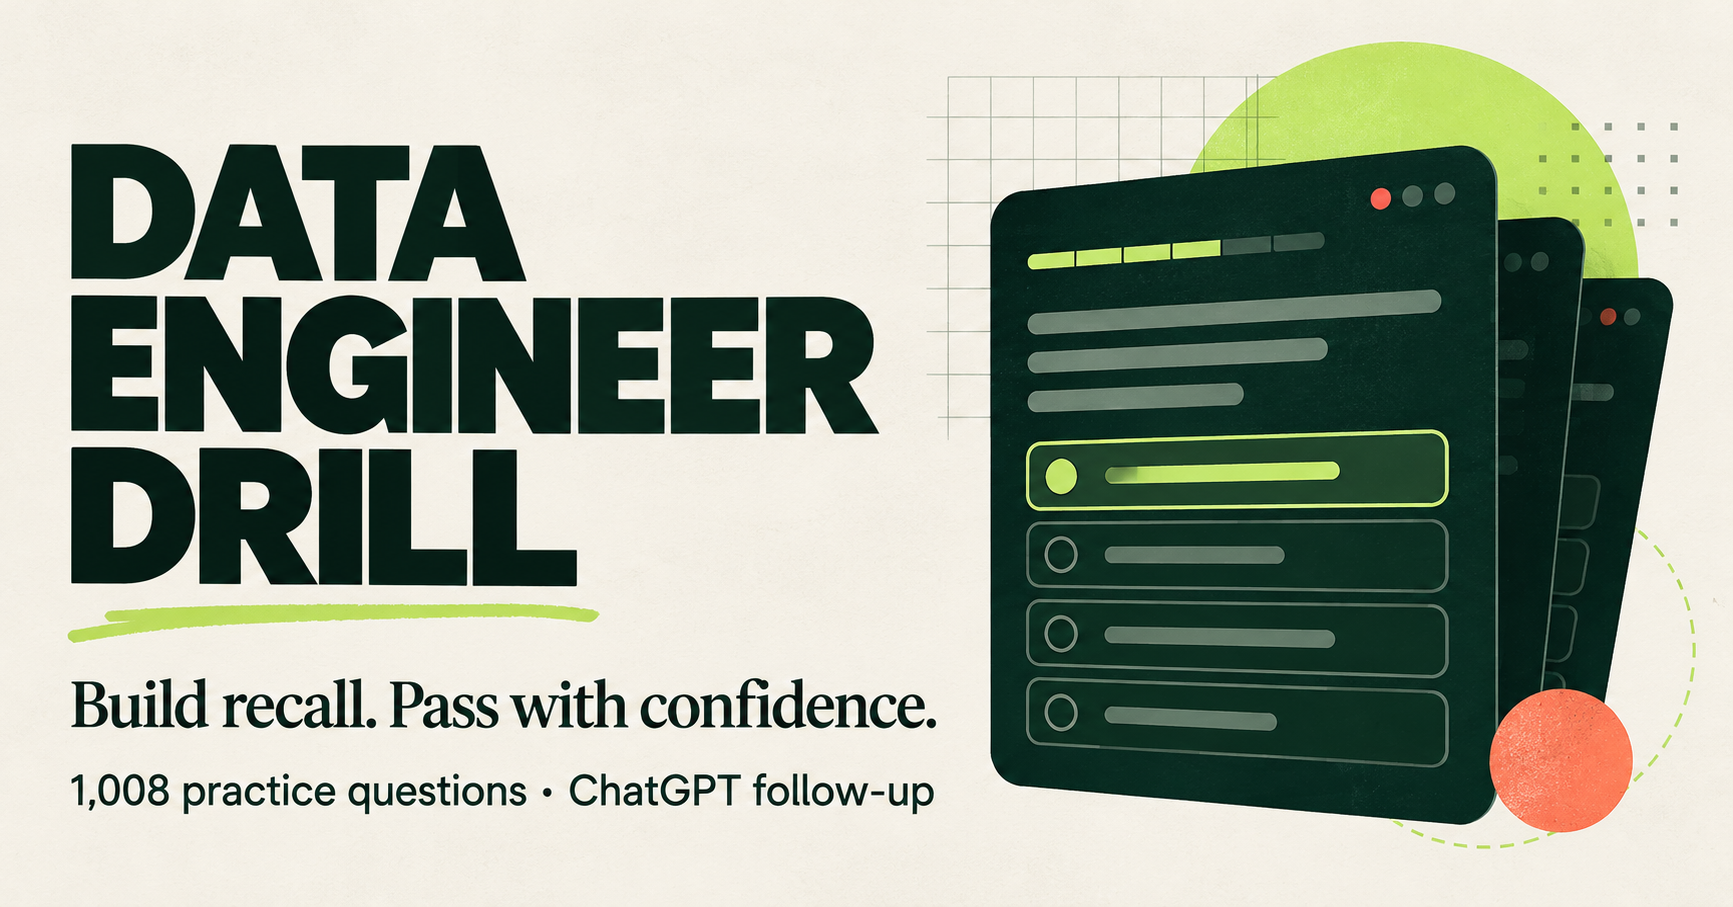
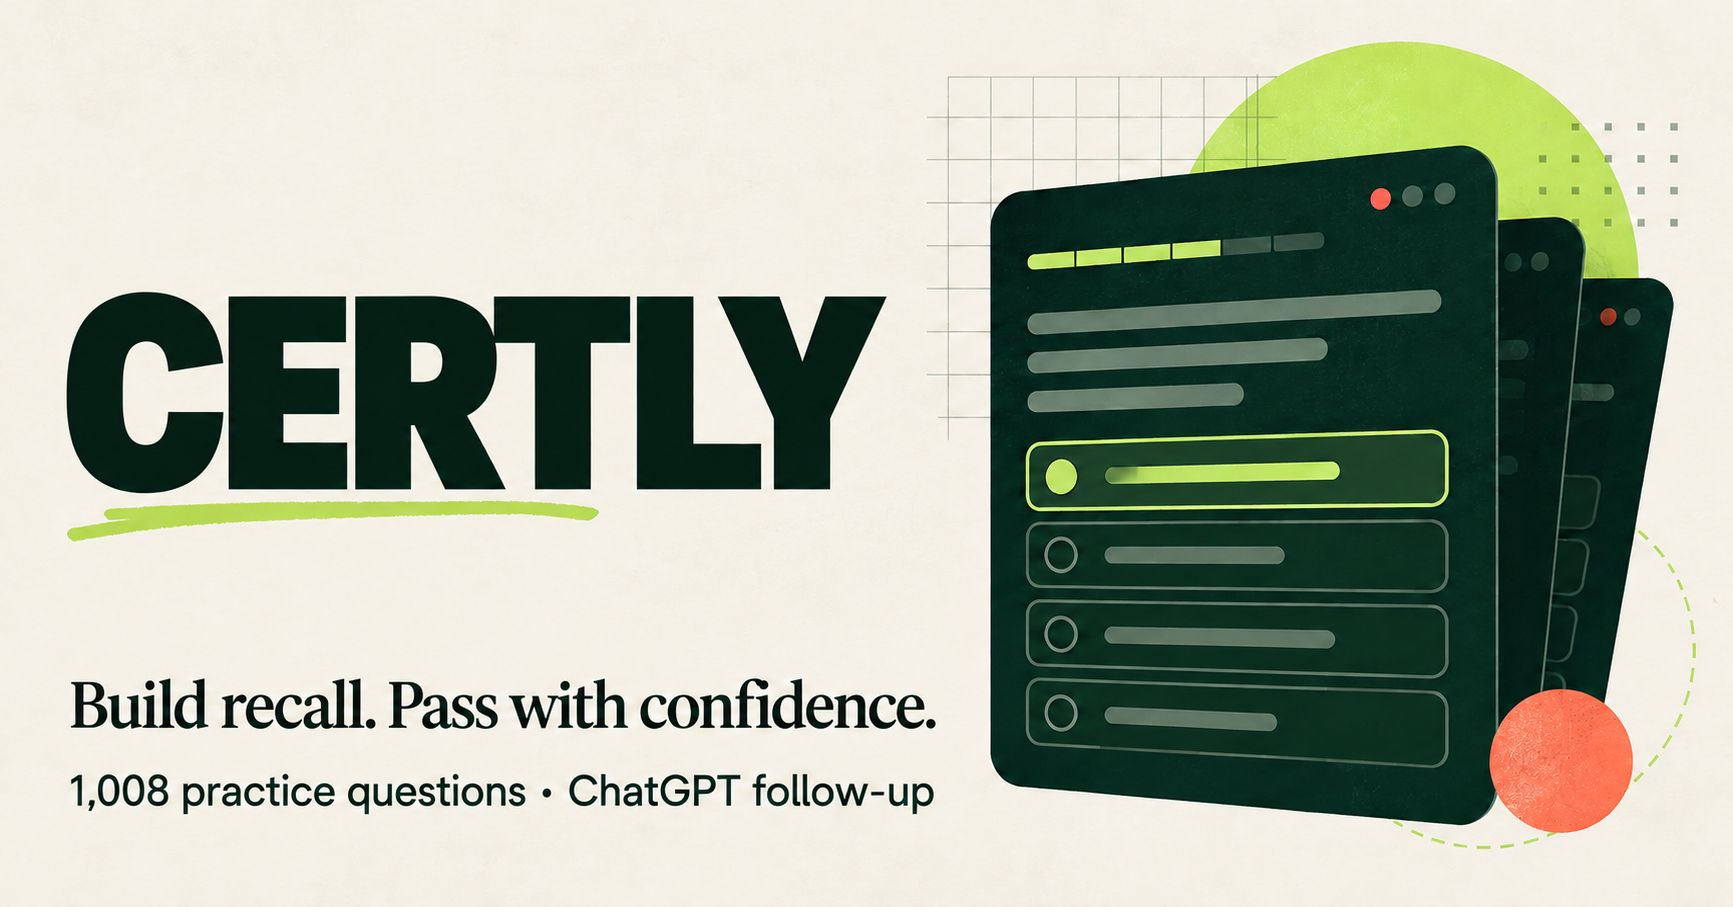
Complete Certly rebrand and module cleanup

diff --git a/index.html b/index.html
@@ -5,7 +5,7 @@
   <meta name="viewport" content="width=device-width, initial-scale=1, viewport-fit=cover">
   <meta name="theme-color" content="#10231e">
   <meta name="description" content="Mobile practice for the Databricks Data Engineer Associate certification.">
-  <meta property="og:title" content="Data Engineer Drill">
+  <meta property="og:title" content="Certly">
   <meta property="og:description" content="Focused practice, clear explanations, and ChatGPT follow-up for the Databricks Data Engineer Associate exam.">
   <meta property="og:image" content="./og.png">
   <link rel="manifest" href="./manifest.webmanifest">
@@ -114,7 +114,7 @@
     }
     .stats-strip {
       display: grid;
-      grid-template-columns: repeat(3, 1fr);
+      grid-template-columns: repeat(2, 1fr);
       gap: 8px;
       margin: 13px 0 20px;
     }
@@ -180,7 +180,6 @@
     .btn-dark { background: var(--ink); color: white; }
     .btn-light { border: 1px solid var(--line); background: var(--surface); color: var(--ink); }
     .btn-ghost { background: transparent; color: var(--ink-soft); }
-    .btn-danger { background: var(--coral-soft); color: #8b2b19; }
     .action-grid { display: grid; grid-template-columns: 1fr 1fr; gap: 10px; margin: 12px 0 25px; }
     .action-card {
       min-height: 122px;
@@ -317,10 +316,6 @@
     .insight-icon { display: grid; width: 44px; height: 44px; flex: 0 0 auto; place-items: center; border-radius: 14px; background: var(--mint); font-weight: 900; }
     .insight-card p { margin: 3px 0 0; color: var(--muted); font-size: 12px; }
     .insight-card .btn { min-height: 42px; margin-left: auto; padding: 8px 12px; font-size: 11px; }
-    .settings-card { padding: 18px; margin-bottom: 11px; }
-    .settings-row { display: flex; align-items: center; justify-content: space-between; gap: 16px; }
-    .settings-row p { margin: 4px 0 0; color: var(--muted); font-size: 12px; line-height: 1.4; }
-    .data-note { margin-top: 16px; padding: 15px; border-left: 4px solid var(--lime-dark); border-radius: 10px; background: #eceadf; color: var(--ink-soft); font-size: 12px; line-height: 1.5; }
     .toast {
       position: fixed;
       z-index: 80;
@@ -360,8 +355,8 @@
   <div class="app-shell">
     <header class="topbar">
       <div class="brand">
-        <div class="brand-mark">DE</div>
-        <div><div class="brand-name">Data Engineer Drill</div><div class="brand-sub">Associate certification</div></div>
+        <div class="brand-mark">C</div>
+        <div><div class="brand-name">Certly</div><div class="brand-sub">Associate certification</div></div>
       </div>
       <div class="local-pill"><i class="local-dot"></i> On-device</div>
     </header>
@@ -371,7 +366,6 @@
     <nav class="bottom-nav" id="bottom-nav" aria-label="Primary navigation" hidden>
       <button class="nav-btn active" data-view="home"><span>⌂</span>Home</button>
       <button class="nav-btn" data-view="review"><span>◎</span>Review</button>
-      <button class="nav-btn" data-view="settings"><span>⚙</span>Settings</button>
     </nav>
     <div class="toast" id="toast" role="status"></div>
   </div>
@@ -387,7 +381,6 @@
       { id: "implementing_ci_cd", number: "05", name: "Implementing CI/CD", weight: "10%" },
       { id: "troubleshooting_monitoring_and_optimization", number: "06", name: "Troubleshooting, Monitoring, and Optimization", weight: "10%" },
       { id: "governance_and_security", number: "07", name: "Governance and Security", weight: "15%" },
-      { id: "unknown", number: "—", name: "Unmapped / legacy topics", weight: "Review" },
     ];
 
     let questions = [];
@@ -428,7 +421,7 @@
       }).join("");
     }
 
-    function moduleInfo(id) { return MODULES.find((module) => module.id === id) || MODULES[7]; }
+    function moduleInfo(id) { return MODULES.find((module) => module.id === id) || MODULES[0]; }
     function shuffle(items) {
       const copy = [...items];
       for (let i = copy.length - 1; i > 0; i--) {
@@ -470,7 +463,6 @@
       window.scrollTo({ top: 0, behavior: "smooth" });
       if (view === "home") renderHome();
       if (view === "review") renderReview();
-      if (view === "settings") renderSettings();
     }
 
     function moduleCard(module) {
@@ -525,7 +517,7 @@
     }
 
     function weakestModule() {
-      const attempted = MODULES.filter((module) => module.id !== "unknown").map((module) => {
+      const attempted = MODULES.map((module) => {
         const result = aggregate(questions.filter((question) => question.module === module.id));
         return { ...module, ...result };
       }).filter((module) => module.attempts > 0).sort((a, b) => a.accuracy - b.accuracy);
@@ -674,7 +666,7 @@
 
     function renderReview() {
       const mistakeCount = Object.keys(state.mistakes).length;
-      const moduleResults = MODULES.filter((module) => module.id !== "unknown").map((module) => ({ ...module, ...aggregate(questions.filter((question) => question.module === module.id)) })).sort((a, b) => (a.attempts ? a.accuracy : 101) - (b.attempts ? b.accuracy : 101));
+      const moduleResults = MODULES.map((module) => ({ ...module, ...aggregate(questions.filter((question) => question.module === module.id)) })).sort((a, b) => (a.attempts ? a.accuracy : 101) - (b.attempts ? b.accuracy : 101));
       document.getElementById("app").innerHTML = `<section class="page-heading"><p class="eyebrow">Knowledge review</p><h1 style="font-size:40px">Turn misses into recall.</h1><p>Your weakest areas rise to the top. Two correct answers in mistake mode clears a question.</p></section>
         <section class="card insight-card"><span class="insight-icon">!</span><div><strong>${mistakeCount} questions to revisit</strong><p>Target the concepts that cost you points.</p></div><button class="btn btn-dark" id="review-all" ${mistakeCount ? "" : "disabled"}>Start</button></section>
         <section class="card insight-card"><span class="insight-icon">⚑</span><div><strong>${state.flagged.length} explanation issues</strong><p>Stored locally for later review or correction.</p></div></section>

diff --git a/service-worker.js b/service-worker.js
@@ -1,4 +1,4 @@
-const CACHE = "de-drill-v2";
+const CACHE = "certly-v3";
 const CORE = ["./", "./index.html", "./questions.json", "./manifest.webmanifest"];
 
 self.addEventListener("install", (event) => {
